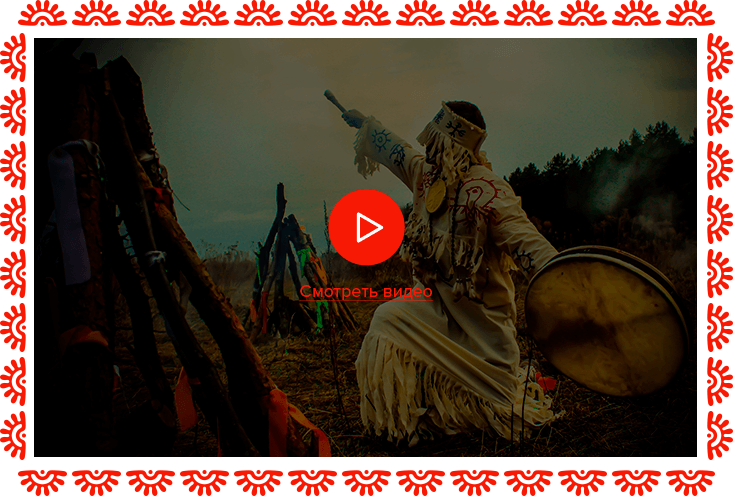
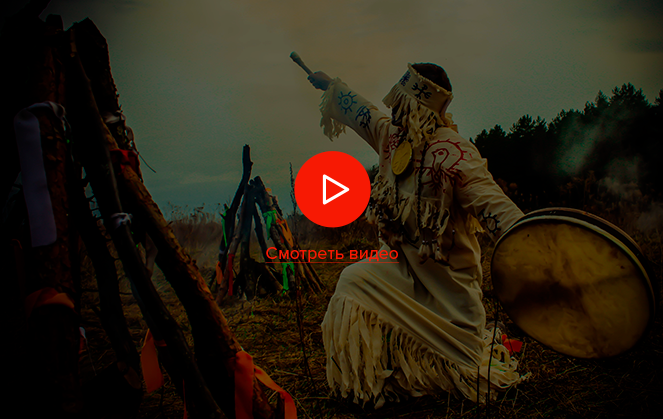
+

diff --git a/sh/static/css/mainn7qncr.min.css b/sh/static/css/mainn7qncr.min.css
@@ -1,0 +1,1 @@
+html{line-height:1.15;-webkit-text-size-adjust:100%}body{margin:0}details,h1,main{display:block}h1{margin:.67em 0;color:#f11700;font-family:RitalinExtraBold;font-size:90px;text-align:center;width:100%}hr{-webkit-box-sizing:content-box;box-sizing:content-box;height:0;overflow:visible}code,kbd,pre,samp{font-family:monospace,monospace;font-size:1em}a{background-color:transparent}abbr[title]{border-bottom:none;-webkit-text-decoration:underline dotted;text-decoration:underline dotted}b,strong{font-weight:bolder}small{font-size:80%}sub,sup{font-size:75%;line-height:0;position:relative;vertical-align:baseline}sub{bottom:-.25em}sup{top:-.5em}img{border-style:none}button,input,optgroup,select,textarea{font-family:inherit;font-size:100%;line-height:1.15;margin:0}button,input{overflow:visible}button,select{text-transform:none}[type=button],[type=reset],[type=submit],button{-webkit-appearance:button}[type=button]::-moz-focus-inner,[type=reset]::-moz-focus-inner,[type=submit]::-moz-focus-inner,button::-moz-focus-inner{border-style:none;padding:0}[type=button]:-moz-focusring,[type=reset]:-moz-focusring,[type=submit]:-moz-focusring,button:-moz-focusring{outline:1px dotted ButtonText}fieldset{padding:.35em .75em .625em}legend{color:inherit;display:table;max-width:100%;white-space:normal}progress{vertical-align:baseline}textarea{overflow:auto}[type=checkbox],[type=radio],legend{-webkit-box-sizing:border-box;box-sizing:border-box;padding:0}[type=number]::-webkit-inner-spin-button,[type=number]::-webkit-outer-spin-button{height:auto}[type=search]{-webkit-appearance:textfield;outline-offset:-2px}[type=search]::-webkit-search-decoration{-webkit-appearance:none}::-webkit-file-upload-button{-webkit-appearance:button;font:inherit}summary{display:list-item}[hidden],template{display:none}@font-face{font-family:'GothamPro Black';src:url(../fonts/GOTHAMPRO-BLACK.ttf)}@font-face{font-family:'GothamPro BlackItalic';src:url(../fonts/GOTHAMPRO-BLACKITALIC.ttf)}@font-face{font-family:'GothamPro Bold';src:url(../fonts/GOTHAMPRO-BOLD.ttf)}@font-face{font-family:'GothamPro BoldItalic';src:url(../fonts/GOTHAMPRO-BOLDITALIC.ttf)}@font-face{font-family:'GothamPro Italic';src:url(../fonts/GOTHAMPRO-ITALIC.ttf)}@font-face{font-family:'GothamPro Light';src:url(../fonts/GothamProLight.ttf)}@font-face{font-family:'GothamPro LightItalic';src:url(../fonts/GOTHAMPRO-LIGHTITALIC.ttf)}@font-face{font-family:'GothamPro Medium';src:url(../fonts/GOTHAMPRO-MEDIUM.ttf)}@font-face{font-family:'GothamPro MediumItalic';src:url(../fonts/GOTHAMPRO-MEDIUMTALIC.ttf)}@font-face{font-family:'GothamPro';src:url(../fonts/GothamPro.ttf)}@font-face{font-family:'GothamProNarrow Bold';src:url(../fonts/GOTHAMPRONARROW-BOLD.ttf)}@font-face{font-family:'GothamProNarrow Medium';src:url(../fonts/GOTHAMPRONARROW-MEDIUM.ttf)}@font-face{font-family:'RitalinExtraBold';src:url(../fonts/RitalinExtraBold.ttf)}@font-face{font-family:'Ritabd';src:url(../fonts/RITABD_.ttf)}@font-face{font-family:'Ritalin';src:url(../fonts/RITALIN.ttf)}body,html{color:#fff;background:#000;font-family:GothamPro}li{list-style-type:none}.page__wrapper{min-height:100%}*{margin:0;padding:0;-webkit-box-sizing:border-box;box-sizing:border-box;outline:0}* html .page__wrapper,body,html{height:100%}button{cursor:pointer}button:hover{opacity:.7}.container{display:-webkit-box;display:-ms-flexbox;display:flex;max-width:1920px;width:100%;padding:0 110px;position:relative;margin:0 auto}main{padding:50px 0;background-image:url(../img/general/kvahu-bg-BW.jpg);background-position:top center;background-size:contain;background-repeat-x:no-repeat}.index_header{z-index:10}.index_header .container{background-image:url(../img/general/indexbg.png);background-position:center center;background-repeat:no-repeat;background-size:cover;-webkit-box-orient:vertical;-webkit-box-direction:normal;-ms-flex-direction:column;flex-direction:column}.index_header,.index_header .container .menu{position:relative}.index_header .container .block_w_border{padding:120px 200px;margin-bottom:40px}.index_header .container .menu{margin-bottom:40px}.index_header .container .langs,.index_header .container .socials{position:absolute;top:50%;-webkit-transform:translateY(-50%);transform:translateY(-50%);-webkit-box-orient:vertical;-webkit-box-direction:normal;-ms-flex-direction:column;flex-direction:column}.index_header .container .socials{left:10px}.index_header .container .langs{right:10px}.index_header .container .index_header_logo{width:100%;height:100%}.mm .mm_head .t,h2{font-family:RitalinExtraBold;font-size:40px}h2{margin-bottom:40px}.mm .mm_head,h3{margin-bottom:20px}h3{font-size:25px;margin-top:10px;font-family:GothamPro Bold}.right_panel{padding-left:30px}.right_panel img{height:370px;margin:30px 0}.video{border:30px solid #40c4c8;padding:5px;border-image-source:url(../img/general/patter2.png);border-image-slice:27 69 27 70;border-image-width:26px 70px 26px 70px;border-image-outset:0 0 0 0;border-image-repeat:round round}.mm{max-width:360px}.mm .mm_head{-webkit-box-pack:justify;-ms-flex-pack:justify;justify-content:space-between;-webkit-box-align:center;-ms-flex-align:center;align-items:center}.mm .mm_head .t{color:#f11700}.mm .mm_head,.mm .mm_head .imgs,.mm .mm_head .t{display:-webkit-box;display:-ms-flexbox;display:flex}.mm .mm_head .imgs img{height:26px}.mm .mm_items .mm_item{position:relative;margin-bottom:25px;font-size:18px}.mm .mm_items .mm_item a:hover,.mm .mm_items .mm_item.active a,h2{color:#f11700}.mm .mm_items .mm_item.active:before{content:" ";position:absolute;top:6px;height:1px;background:#f11700;right:calc(100% + 10px);width:1200px}.mm .mm_items .mm_item a{text-transform:uppercase;color:#fff;text-decoration:none}.mm .mm_books,.mm .mm_books .mm_book{display:-webkit-box;display:-ms-flexbox;display:flex}.mm .mm_books{-ms-flex-wrap:wrap;flex-wrap:wrap;-webkit-box-pack:justify;-ms-flex-pack:justify;justify-content:space-between}.mm .mm_books .mm_book{width:50%;-ms-flex-negative:0;flex-shrink:0;-webkit-box-pack:start;-ms-flex-pack:start;justify-content:flex-start;-webkit-box-orient:vertical;-webkit-box-direction:normal;-ms-flex-direction:column;flex-direction:column;-webkit-box-align:center;-ms-flex-align:center;align-items:center;color:#fff;margin-bottom:20px;text-decoration:none}.mm .mm_books .mm_book img,.section img{width:100%}.mm .mm_books .mm_book .mm_book_text{text-decoration:none}.mm .mm_books .mm_book:hover .mm_book_text{text-decoration:underline}.header_head{background-size:cover;background-position:center center}.blog .header_head,.books .header_head,.contacts .header_head,.servises .header_head{background-image:url(../img/general/blogbg.png);margin-top:50px}.contacts main,.servises main{padding:100px 0}.items{-ms-flex-wrap:wrap;flex-wrap:wrap;-webkit-box-pack:justify;-ms-flex-pack:justify;justify-content:space-between;margin-bottom:40px}.items .item{display:-webkit-box;display:-ms-flexbox;display:flex;width:29%;-ms-flex-negative:0;flex-shrink:0;cursor:pointer;margin-top:30px;margin-bottom:10px}.items .item:hover .item_header{color:#f11700}.items .item:hover .item_more{border-bottom:1px dotted #f11700!important}.items .item .item_img{width:100%;height:310px;margin-bottom:40px}.items .item .item_img img{width:100%;height:100%;-o-object-fit:cover;object-fit:cover}.items .item .item_header{text-transform:uppercase;font-family:GothamPro Black;font-size:25px;margin-bottom:24px}.items .item .item_text{color:#f6f6f7;font-size:16px;margin-bottom:24px}.items .item .item_subs,.section{display:-webkit-box;display:-ms-flexbox;display:flex;-webkit-box-align:center;-ms-flex-align:center;align-items:center}.items .item .item_subs{-webkit-box-pack:justify;-ms-flex-pack:justify;justify-content:space-between}.items .item .item_subs .item_data{font-size:16px;color:#fff}.items .item .item_subs .item_more{font-size:20px;color:#f11700;text-transform:uppercase;border-bottom:1px solid transparent}.section{width:100%}.section p{font-size:19px;margin-bottom:25px}.col10,.col100,.col20,.col30,.col40,.col50,.col60,.col70,.col80,.col90{-ms-flex-negative:0;flex-shrink:0}.col10{width:10%}.col20{width:20%}.col30{width:30%}.col40{width:40%}.col50{width:50%}.col60{width:60%}.col70{width:70%}.col80{width:80%}.col90{width:90%}.col100{width:100%}.index_main{background-image:url(../img/general/kvahu-bg-BW.jpg);background-position:top center;background-size:contain}.index_main .container,.items .item{-webkit-box-orient:vertical;-webkit-box-direction:normal;-ms-flex-direction:column;flex-direction:column}.index_main .container .section1 .col70{padding-left:100px}.index_main .container .section .col50:first-child{padding-right:20px}.index_main .container .section .col50:last-child{padding-left:20px}.index_main .container .slick-slider{margin-left:25%;margin-right:-12%}.index_main .container .slick-list{padding:10% 15%!important}.index_main .container .slick-dots{text-align:right;position:absolute;bottom:0;left:0;right:0;display:none}.index_main .container .slick-arrow{position:absolute;top:50%;-webkit-transform:translateY(-50%);transform:translateY(-50%);width:30px;height:29px;border-radius:50%;background:#f11700;color:transparent;overflow:hidden;border:0;z-index:99;font-family:RitalinExtraBold;font-size:27px}.index_main .container .slick-arrow:first-child:after{margin-left:-55px;color:#fff;content:"<"}.index_main .container .slick-arrow:last-child{left:300px}.index_main .container .slick-arrow:last-child:after{margin-left:-49px;color:#fff;content:">"}.index_main .container .slick-track{max-width:100%!important;-webkit-transform:translate3d(0,0,0)!important;transform:translate3d(0,0,0)!important;-webkit-perspective:100px;perspective:100px}.index_main .container .slick-slide{position:absolute;top:0;left:0;right:0;bottom:0;margin:auto;opacity:0;width:100%!important;-webkit-transform:translate3d(0,0,0);transform:translate3d(0,0,0);-webkit-transition:opacity .2s,-webkit-transform 1s;transition:transform 1s,opacity .2s;transition:transform 1s,opacity .2s,-webkit-transform 1s}.index_main .container .slick-snext,.index_main .container .slick-sprev{display:block}.index_main .container .slick-current{opacity:1;position:relative;display:block;-webkit-transform:translate3d(0,0,20px);transform:translate3d(0,0,20px);z-index:2}.index_main .container .slick-snext{opacity:.5;-webkit-transform:translate3d(20%,0,0);transform:translate3d(20%,0,0);z-index:1}.index_main .container .slick-sprev{opacity:.5;-webkit-transform:translate3d(-20%,0,0);transform:translate3d(-20%,0,0)}.index_main .container .slick-slide img{width:200px}.langs,.langs .lang{display:-webkit-box;display:-ms-flexbox;display:flex}.langs{font-size:26px;-webkit-box-pack:end;-ms-flex-pack:end;justify-content:flex-end}.langs .lang{opacity:.3;cursor:pointer;margin-left:10px;-webkit-box-pack:center;-ms-flex-pack:center;justify-content:center}.langs .lang.active:hover,.langs .lang:hover,.menu a:hover{opacity:.7}.langs .lang.active{opacity:1}.header,.langs,.menu{font-family:RitalinExtraBold}.menu{display:-webkit-box;display:-ms-flexbox;display:flex;-webkit-box-pack:center;-ms-flex-pack:center;justify-content:center}.menu a{color:#fff;margin:10px;font-size:26px;text-decoration:none}.header{position:fixed;background:#000;-webkit-box-pack:justify;-ms-flex-pack:justify;justify-content:space-between;top:0;left:0;z-index:9;min-height:90px}.header .container,.langs .lang{-webkit-box-align:center;-ms-flex-align:center;align-items:center}.header,.header .langs,.header .menu,.header .socials{width:100%}.block_w_border,.form .container .left,.header{display:-webkit-box;display:-ms-flexbox;display:flex}.block_w_border{border:30px solid #40c4c8;border-image-source:url(../img/general/patter2.png);border-image-slice:27 69 27 70;border-image-width:26px 70px 26px 70px;border-image-outset:0 0 0 0;border-image-repeat:round round;position:relative;margin:70px 0;width:100%;z-index:1;-webkit-box-pack:justify;-ms-flex-pack:justify;justify-content:space-between;padding:20px}.form .container{background-image:url(../img/general/bg.png);background-size:cover;background-position:center center}.form .container .left,.form .container .right{-ms-flex-negative:0;flex-shrink:0;width:50%}.form .container .left{-webkit-box-orient:vertical;-webkit-box-direction:normal;-ms-flex-direction:column;flex-direction:column;padding:0 100px}.form .container .inputs_line{display:-webkit-box;display:-ms-flexbox;display:flex;-webkit-box-pack:justify;-ms-flex-pack:justify;justify-content:space-between;margin:10px 0}.form .container input,.form .container textarea{width:100%;border:0;border-bottom:1px #a7a7a7 solid;font-family:GothamPro;font-size:17px;padding:5px 0;background:0 0;color:#fff}.form .container input:focus,.form .container textarea:focus{border-color:#f11700}.form .container textarea{height:60px;resize:none}.form .container input:nth-child(2){margin-left:10px}.form .container .header-text{font-family:RitalinExtraBold;color:#f11700;font-size:40px;line-height:28px;text-transform:uppercase;margin-bottom:60px;margin-top:80px}.footer,.form .container button{display:-webkit-box;display:-ms-flexbox;display:flex;-webkit-box-pack:center;-ms-flex-pack:center;justify-content:center;color:#fff}.form .container button{width:100%;height:56px;border-radius:28px;text-transform:uppercase;background-color:#f11700;-webkit-box-align:center;-ms-flex-align:center;align-items:center;border:0;font-family:RitalinExtraBold}.form .container .texts{padding-left:40px;padding-top:10px}.form .container .texts .text{white-space:nowrap;position:relative;font-size:16px;margin-bottom:10px;text-transform:uppercase}.form .container .texts .text:before{position:absolute;left:-21px;content:" ";width:14px;height:21px;bottom:5px;background-image:url(../img/general/check.png);background-size:cover;background-position:center center}.form .sham{position:absolute;bottom:0;right:150px;height:90%;z-index:2}.ser .book_slider{display:none}.footer{background:#000;font-family:GothamPro Light;font-size:16px;font-weight:300;line-height:22px;padding:40px 0}.footer .container,.socials{-webkit-box-pack:justify;-ms-flex-pack:justify;justify-content:space-between;-webkit-box-align:center;-ms-flex-align:center;align-items:center}.footer .top{margin-bottom:20px}.footer .address{text-align:left}.footer .copy{text-align:right}.footer .copy .politica{color:#f11700}.footer .address,.footer .copy,.footer .socials{width:100%}.socials{display:-webkit-box;display:-ms-flexbox;display:flex;-webkit-box-pack:center;-ms-flex-pack:center;justify-content:center}.socials .soc{-ms-flex-negative:0;flex-shrink:0;margin:0 15px}.socials .soc,.socials .soc img{width:57px;height:57px}.socials .soc:hover{opacity:.7}@media (max-width:1440px){.form .sham{display:none}.form .container .left{width:100%}.form .container .right{width:0}.block_w_border{padding:100px}}@media (max-width:1024px){.container{padding:0 30px}.index_header .langs,.index_header .socials{display:none}.socials .soc{display:-webkit-box;display:-ms-flexbox;display:flex}.socials .soc,.socials .soc img{width:40px;height:40px}.menu a{font-size:20px}.section3,.section4{-ms-flex-wrap:wrap;flex-wrap:wrap}.section3 .col50,.section4 .col50{width:100%}.index_main .container .slick-slider{margin-right:0}.index_main .container .section .col50{padding:0!important}.items .item{width:45%}.contacts .container,.servises .container{-ms-flex-wrap:wrap;flex-wrap:wrap}.mm{max-width:100%}.mm .mm_head,.mm_items{-webkit-box-pack:center;-ms-flex-pack:center;justify-content:center}.mm .mm_head .t{margin-right:10px}.mm .mm_items .mm_item.active:before{content:none}.mm_items{display:-webkit-box;display:-ms-flexbox;display:flex;-webkit-box-align:center;-ms-flex-align:center;align-items:center;-ms-flex-wrap:wrap;flex-wrap:wrap}.mm_item{margin:10px;text-align:center}}@media (max-width:768px){.block_w_border,.video{border-image-width:20px 52px 20px 52px;padding:0}.video{border-width:20px}.index_header .container .block_w_border{padding:20px}.index_main .container .section1 .col70{-webkit-box-ordinal-group:1;-ms-flex-order:0;order:0}.index_main .container .section1 .col30{-webkit-box-ordinal-group:2;-ms-flex-order:1;order:1}.col30,.col50,.col70{width:100%}.header .container,.section{-ms-flex-wrap:wrap;flex-wrap:wrap}.index_main .container .slick-slider{margin-left:10%}.form .container .left{padding:0 10px}.inputs_line{-webkit-box-orient:vertical;-webkit-box-direction:normal;-ms-flex-direction:column;flex-direction:column}.form .container input:nth-child(2){margin:10px 0 0}.menu{margin:10px 0}.header .langs,.header .menu,.header .socials{-webkit-box-pack:center;-ms-flex-pack:center;justify-content:center}.footer .container{-webkit-box-orient:vertical;-webkit-box-direction:normal;-ms-flex-direction:column;flex-direction:column}.footer .address,.footer .copy,.footer .socials{-webkit-box-pack:center;-ms-flex-pack:center;justify-content:center;text-align:center;font-size:12px}.form .container .texts .text{font-size:12px}.form .container .texts .text:before{bottom:-1px}.form .container button{height:40px;margin-bottom:20px}.form .container .header-text{font-size:24px;text-align:center;margin-bottom:36px;margin-top:20px}.footer .socials{margin:10px}.items .item{width:100%}.items .item .item_subs .item_more{font-size:16px}h1{font-size:65px}.right_panel{padding-left:0}.right_panel img{width:100%;height:auto}.section2 img{display:none}.index_main .container .section1 .col70{padding:0}.index_header .container .index_header_logo{height:100%;width:100%}}@media (max-width:480px){.container{padding:0 15px}.index_header .container .block_w_border{margin-top:20px}.block_w_border,.video{border-image-width:13px 35px 13px 35px}.menu a{font-size:14px}.index_main .container .slick-slide img{width:120px}.index_main .container .slick-arrow:last-child{left:180px}.section p{font-size:16px}.form .block_w_border{border:0;padding:0;margin:20px 0}}

diff --git a/sh/static/css/mainn7qncr.css b/sh/static/css/mainn7qncr.css
@@ -250,6 +250,9 @@ button:hover {
   position: relative;
   margin: 0 auto;
 }
+main {
+  padding: 50px 0;
+}
 .index_header {
   position: relative;
   z-index: 10;
@@ -268,7 +271,7 @@ button:hover {
   position: relative;
 }
 .index_header .container .block_w_border {
-  padding: 150px 200px;
+  padding: 120px 200px;
 }
 .index_header .container .block_w_border,
 .index_header .container .menu {
@@ -321,6 +324,15 @@ h3 {
 .right_panel img {
   height: 370px;
   margin: 30px 0;
+}
+.video {
+  border: 30px solid #40c4c8;
+  padding: 5px;
+  border-image-source: url("../img/general/patter2.png");
+  border-image-slice: 27 69 27 70;
+  border-image-width: 26px 70px 26px 70px;
+  border-image-outset: 0px 0px 0px 0px;
+  border-image-repeat: round round;
 }
 .mm {
   max-width: 360px;
@@ -427,6 +439,7 @@ h3 {
 .contacts .header_head,
 .servises .header_head {
   background-image: url("../img/general/blogbg.png");
+  margin-top: 50px;
 }
 .contacts main,
 .servises main {
@@ -508,6 +521,7 @@ main {
   background-image: url("../img/general/kvahu-bg-BW.jpg");
   background-position: top center;
   background-size: contain;
+  background-repeat-x: no-repeat;
 }
 .section {
   display: -webkit-box;
@@ -1051,9 +1065,25 @@ main {
 @media (max-width: 768px) {
   .block_w_border {
     border-image-width: 20px 52px 20px 52px;
+    padding: 0;
+  }
+  .video {
+    border-width: 20px;
+    padding: 0;
+    border-image-width: 20px 52px 20px 52px;
   }
   .index_header .container .block_w_border {
     padding: 20px;
+  }
+  .index_main .container .section1 .col70 {
+    -webkit-box-ordinal-group: 1;
+        -ms-flex-order: 0;
+            order: 0;
+  }
+  .index_main .container .section1 .col30 {
+    -webkit-box-ordinal-group: 2;
+        -ms-flex-order: 1;
+            order: 1;
   }
   .col50,
   .col30,
@@ -1159,7 +1189,8 @@ main {
   .index_header .container .block_w_border {
     margin-top: 20px;
   }
-  .block_w_border {
+  .block_w_border,
+  .video {
     border-image-width: 13px 35px 13px 35px;
   }
   .menu a {

diff --git a/sh/index.html b/sh/index.html
@@ -12,7 +12,7 @@
         <meta name="HandheldFriendly" content="true">
 
         <!--[if (gt IE 9)|!(IE)]><!-->
-        <link href="static/css/main0ebxcg.min.css" rel="stylesheet" type="text/css">
+        <link href="static/css/mainn7qncr.min.css" rel="stylesheet" type="text/css">
         <!--<![endif]-->
         <meta property="og:title" content="#{data.title}">
         <meta property="og:title" content="">
@@ -100,7 +100,7 @@
                 </div>
                 <div class="section section3">
                     <div class="col50">
-                        <img src="static/img/general/video.png" alt="">
+                        <img class="video" src="static/img/general/video.png" alt="">
                     </div>
                     <div class="col50">
                         <h2>Заголовок</h2>
@@ -253,7 +253,7 @@
         <script type="text/javascript" src="//cdn.jsdelivr.net/npm/slick-carousel@1.8.1/slick/slick.min.js"></script>
 
 
-        <script src="static/js/main0ebxcg.min.js"></script>
+        <script src="static/js/mainn7qncr.min.js"></script>
     </body>
 
 </html>

diff --git a/sh/blog.html b/sh/blog.html
@@ -12,7 +12,7 @@
         <meta name="HandheldFriendly" content="true">
 
         <!--[if (gt IE 9)|!(IE)]><!-->
-        <link href="static/css/main0ebxcg.min.css" rel="stylesheet" type="text/css">
+        <link href="static/css/mainn7qncr.min.css" rel="stylesheet" type="text/css">
         <!--<![endif]-->
         <meta property="og:title" content="#{data.title}">
         <meta property="og:title" content="">
@@ -202,7 +202,7 @@
         </footer>
 
 
-        <script src="static/js/main0ebxcg.min.js"></script>
+        <script src="static/js/mainn7qncr.min.js"></script>
     </body>
 
 </html>

diff --git a/sh/books.html b/sh/books.html
@@ -12,7 +12,7 @@
         <meta name="HandheldFriendly" content="true">
 
         <!--[if (gt IE 9)|!(IE)]><!-->
-        <link href="static/css/main0ebxcg.min.css" rel="stylesheet" type="text/css">
+        <link href="static/css/mainn7qncr.min.css" rel="stylesheet" type="text/css">
         <!--<![endif]-->
         <meta property="og:title" content="#{data.title}">
         <meta property="og:title" content="">
@@ -202,7 +202,7 @@
         </footer>
 
 
-        <script src="static/js/main0ebxcg.min.js"></script>
+        <script src="static/js/mainn7qncr.min.js"></script>
     </body>
 
 </html>

diff --git a/sh/contants.html b/sh/contants.html
@@ -12,7 +12,7 @@
         <meta name="HandheldFriendly" content="true">
 
         <!--[if (gt IE 9)|!(IE)]><!-->
-        <link href="static/css/main0ebxcg.min.css" rel="stylesheet" type="text/css">
+        <link href="static/css/mainn7qncr.min.css" rel="stylesheet" type="text/css">
         <!--<![endif]-->
         <meta property="og:title" content="#{data.title}">
         <meta property="og:title" content="">
@@ -220,7 +220,7 @@
         </footer>
 
 
-        <script src="static/js/main0ebxcg.min.js"></script>
+        <script src="static/js/mainn7qncr.min.js"></script>
     </body>
 
 </html>

diff --git a/sh/servises.html b/sh/servises.html
@@ -12,7 +12,7 @@
         <meta name="HandheldFriendly" content="true">
 
         <!--[if (gt IE 9)|!(IE)]><!-->
-        <link href="static/css/main0ebxcg.min.css" rel="stylesheet" type="text/css">
+        <link href="static/css/mainn7qncr.min.css" rel="stylesheet" type="text/css">
         <!--<![endif]-->
         <meta property="og:title" content="#{data.title}">
         <meta property="og:title" content="">
@@ -226,7 +226,7 @@
         </footer>
 
 
-        <script src="static/js/main0ebxcg.min.js"></script>
+        <script src="static/js/mainn7qncr.min.js"></script>
     </body>
 
 </html>
